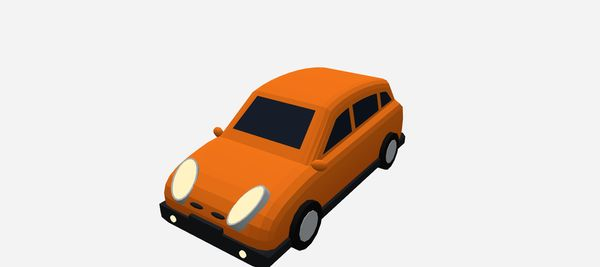
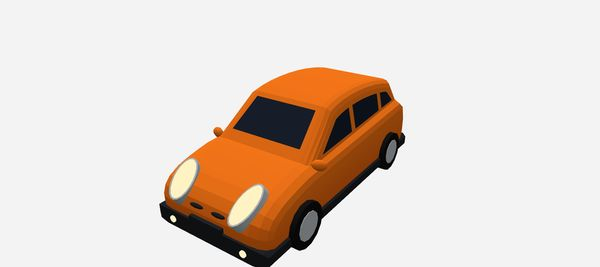
Commuter: the headlamp lens clear of the bonnet (CHECKLIST 345)
One body vertex overlapped the lens's lower inboard edge. The lamp sits on the
nose's flat part, where the surface barely faces outward, so the ring's outward
splay was sinking its inboard side: the splay is halved and the ring stands 10 cm
out. Checked in 3x crops from four angles: no overlap. The lamp table's headlamp
entry re-drafted from scripts/lamps.mjs, the tag baselines re-recorded, the
fallback card pictures re-shot.

Claude-Session: https://claude.ai/code/session_01W2PMgY7HZ31yFPHFeqVrMe

Changed region(s): [[0.36, 0.6891, 0.45, 0.8689], [0.27, 0.5693, 0.36, 0.779]]

diff --git a/src/delivery/render/modelsOrig1b.js b/src/delivery/render/modelsOrig1b.js
@@ -251,14 +251,14 @@ ORIG1B_MODELS.commuter = (car) => {
     if (yaw) geo.rotateY(yaw);
     return geo.translate(x, y, z);
   };
-  const HL = [0.5, 0.66, NOSE - 0.03], HP = -0.95, HY = 0.4; // (the headlamp's place; its pitch, the ring's axis the nose corner's normal; its splay)
+  const HL = [0.5, 0.66, NOSE - 0.03], HP = -0.95, HY = 0.22; // (the headlamp's place; its pitch, the ring's axis the nose corner's normal; its splay)
   const TL = [0.66, 0.66, TAILZ - BEV + 0.03]; // (the tail lamp's place; its ring's axis straight back)
   parts(group, k + 'bezel', SILVER, () => [
-    ...[-1, 1].map(s => ring(0.15, 0.28, 0.24, 0.09, s * HL[0], HL[1], HL[2], HP, -s * HY)),
+    ...[-1, 1].map(s => ring(0.15, 0.28, 0.26, 0.1, s * HL[0], HL[1], HL[2], HP, -s * HY)),
     ...[-1, 1].map(s => ring(0.1, 0.18, 0.22, 0.09, s * TL[0], TL[1], TL[2], Math.PI, 0)),
   ]);
   parts(group, k + 'lamp', LAMP, () => [
-    ...[-1, 1].map(s => dome(0.13, 0.26, 0.05, 0.09, s * HL[0], HL[1], HL[2], HP, -s * HY)),
+    ...[-1, 1].map(s => dome(0.13, 0.26, 0.05, 0.1, s * HL[0], HL[1], HL[2], HP, -s * HY)),
     ...[-1, 1].map(s => dsc(0.03, 0.02, s * TL[0], TL[1] - 0.075, TL[2] - 0.118, 12)),   // the clear lenses
   ]);
   parts(group, k + 'tail', TAIL, () => [-1, 1].map(s => dome(0.085, 0.16, 0.035, 0.09, s * TL[0], TL[1], TL[2], Math.PI, 0)));

diff --git a/src/delivery/render/carlights.js b/src/delivery/render/carlights.js
@@ -51,10 +51,10 @@ export const CAR_LAMPS = {
   // lamps the table drives). No indicator lenses: the front ones flash on the outer edge of the headlamp's almond, the
   // rear ones on the outer edge of the tail lamp. (Placed from scripts/lamps.mjs's draft of the new body.)
   commuter: {
-    head: [{ at: [0.48, 0.733, 1.909], size: [0.291, 0.303], round: true, mirror: true }],
+    head: [{ at: [0.487, 0.741, 1.923], size: [0.27, 0.303], round: true, mirror: true }],
     tail: [{ at: [0.66, 0.66, -1.905], size: [0.17, 0.32], round: true, mirror: true }],
     blink: [
-      { at: [0.575, 0.733, 1.909], size: [0.1, 0.1], round: true, mirror: true, shared: 'headlamp' },
+      { at: [0.572, 0.741, 1.923], size: [0.1, 0.1], round: true, mirror: true, shared: 'headlamp' },
       { at: [0.711, 0.66, -1.905], size: [0.068, 0.1], round: true, mirror: true, shared: 'tail lamp' },
     ],
     reverse: [{ at: [0.66, 0.585, -1.908], size: [0.06, 0.06], round: true, mirror: true }],

diff --git a/CHECKLIST.md b/CHECKLIST.md
@@ -754,4 +754,4 @@ Working list, from the owner's ideas of 2026-10-09. `[x]` done, `[~]` partly don
 - [ ] 342. NO-BIKE / NO-FLYING RULE (15-Oct) applied to existing cars: Scooter and Sidecar, Gyro Car, Flying Car, UFO, Saucer, Hovercraft break it; the owner has not said what to do (nothing was changed).
 - [ ] 343. MORE THEMES offered, not built: Nordic fjord (long rock tunnels, a ferry, an underground roundabout), neon future city, medieval castle town, oil field, airport apron.
 - [ ] 344. TIDY: `.platecosmetic-check` and `.cosmetics-own-check` snapshot `main`'s vite.config.js and fail now (a check fix); the Stelvio `?level=30` "No car for this level" `flow` console error with the tier rule on (on main); stale comments in ecu.js / carsources.js (replay-hashed: edit only with a version bump); stray items 440 and 450; the Courier Special is unavailable but not flagged hidden; about 70 merged or dead remote branches to delete (the owner must: remote deletion gives 403 here).
-- [ ] 345. COMMUTER REDRAWN (the owner, 15-Oct: "make the Commuter look less ugly ... everyone's first impression", with photographs of an orange Nissan Micra K12 and the old card picture; "do a draft where you try to get it as close as possible", "don't model a wheel well, the tyres clipping through a rigid body is good enough", "make sure the glass edges are crisp", "the bottom black trim is not sticking out enough", "the wheels stick out too much", "the rear lights are too inset"). Branch `claude/commuter-fix-a`, one draft (the b/c drafts of the brief were dropped at the owner's word). `render/modelsOrig1b.js commuter`: the same two-extrusion construction, redrawn: a steep short bonnet into a domed roof crowned over the front seats, an upright hatch, a low waist rising to the back under deep windows, body-colour bumpers over a black skirt band 3 cm proud all round (its corners rounded in plan), a two-slot grille, bug-eye almond headlamps and tall oval tail lamps each a silver ring standing out of the body with a domed lens on top (so the outline is the ring's rim, never a jagged cut), a clear reversing lens in each tail lamp, the tyres pulled in (W - 0.06). FOUND AND FIXED on the way: the side-window polygon listed its roof samples front-to-back after the back-top corner, so the fan overlapped itself and gave the ragged window tops the old Commuter had too; the panes now also stand 1.6 cm proud and 6 cm under the roof line, so the roof's shoulder never overlaps them from above. 15 shapes, 2,084 triangles (was 764 / later 1,764 dressed), 7 draw calls; footprint the same hitbox (hw 0.85, hl 1.85, h 1.45; lamps and skirt stand 3 to 6 cm beyond the ends, under 5 %). Stats untouched. RE-SEATED: the lamp table (`carlights.js commuter`, from `scripts/lamps.mjs`'s draft, plus a reverse lens), plates (`scripts/plate-anchors.mjs commuter --write`: rear [0.553, -1.838], front [0.263, 1.88], both 0.52 wide; `plate-placement-audit.mjs commuter`: no flags), props (`scripts/prop-anchors.mjs commuter l-commuter --write`: roof s1.15, wing s0.78, no cargo), the proptag/platetag baselines re-recorded (`--record`; only the commuter rows and their super/legendary/traffic variants changed), the fallback card pictures `carshots/commuter-good|evil.jpg` re-shot. CHECKED: node --check, eslint, the cars group (6 ok), `.glass-contour-check` (the same five failures as main, the Commuter not among them), `.proptag-check`, `.platetag-check`, `.propanchors-check`, `.suspension-check`, `.modelviews-check` all ok. SEEN in stills (software GL, 2x): front, 3/4 front, side, 3/4 rear, rear, top, Evil, the garage card, close crops of the lamps and the window edges from three angles. NOT SEEN: the Legendary Commuter with its gold trim and laurel (the `?garage&look=l-commuter` still opened on the plain Commuter), the car in traffic from the driving camera (the frame caught no traffic), the lamps lit (`?lamps=night`), the plate and props worn, motion, a real device. Not merged, no version bump.
+- [ ] 345. COMMUTER REDRAWN (the owner, 15-Oct: "make the Commuter look less ugly ... everyone's first impression", with photographs of an orange Nissan Micra K12 and the old card picture; "do a draft where you try to get it as close as possible", "don't model a wheel well, the tyres clipping through a rigid body is good enough", "make sure the glass edges are crisp", "the bottom black trim is not sticking out enough", "the wheels stick out too much", "the rear lights are too inset"). Branch `claude/commuter-fix-a`, one draft (the b/c drafts of the brief were dropped at the owner's word). `render/modelsOrig1b.js commuter`: the same two-extrusion construction, redrawn: a steep short bonnet into a domed roof crowned over the front seats, an upright hatch, a low waist rising to the back under deep windows, body-colour bumpers over a black skirt band 3 cm proud all round (its corners rounded in plan), a two-slot grille, bug-eye almond headlamps and tall oval tail lamps each a silver ring standing out of the body with a domed lens on top (so the outline is the ring's rim, never a jagged cut), a clear reversing lens in each tail lamp, the tyres pulled in (W - 0.06); the headlamp rings stand 10 cm out with the splay halved (the owner, 15-Oct: one body vertex overlapped a lens's lower inboard edge; the lamp sits on the nose's flat part, so less splay, not more height, clears it: checked in 3x crops from four angles). FOUND AND FIXED on the way: the side-window polygon listed its roof samples front-to-back after the back-top corner, so the fan overlapped itself and gave the ragged window tops the old Commuter had too; the panes now also stand 1.6 cm proud and 6 cm under the roof line, so the roof's shoulder never overlaps them from above. 15 shapes, 2,084 triangles (was 764 / later 1,764 dressed), 7 draw calls; footprint the same hitbox (hw 0.85, hl 1.85, h 1.45; lamps and skirt stand 3 to 6 cm beyond the ends, under 5 %). Stats untouched. RE-SEATED: the lamp table (`carlights.js commuter`, from `scripts/lamps.mjs`'s draft, plus a reverse lens), plates (`scripts/plate-anchors.mjs commuter --write`: rear [0.553, -1.838], front [0.263, 1.88], both 0.52 wide; `plate-placement-audit.mjs commuter`: no flags), props (`scripts/prop-anchors.mjs commuter l-commuter --write`: roof s1.15, wing s0.78, no cargo), the proptag/platetag baselines re-recorded (`--record`; only the commuter rows and their super/legendary/traffic variants changed), the fallback card pictures `carshots/commuter-good|evil.jpg` re-shot. CHECKED: node --check, eslint, the cars group (6 ok), `.glass-contour-check` (the same five failures as main, the Commuter not among them), `.proptag-check`, `.platetag-check`, `.propanchors-check`, `.suspension-check`, `.modelviews-check` all ok. SEEN in stills (software GL, 2x): front, 3/4 front, side, 3/4 rear, rear, top, Evil, the garage card, close crops of the lamps and the window edges from three angles. NOT SEEN: the Legendary Commuter with its gold trim and laurel (the `?garage&look=l-commuter` still opened on the plain Commuter), the car in traffic from the driving camera (the frame caught no traffic), the lamps lit (`?lamps=night`), the plate and props worn, motion, a real device. Not merged, no version bump.
